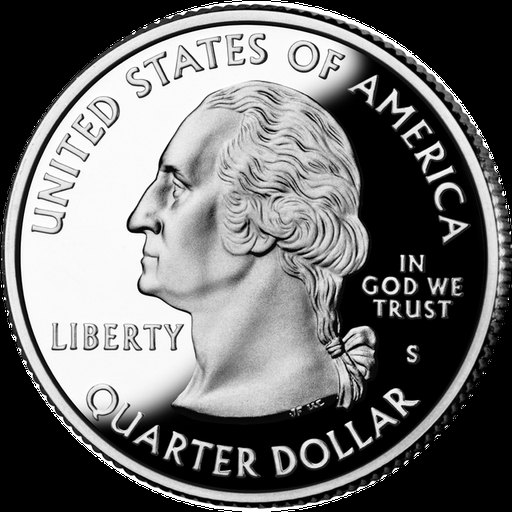
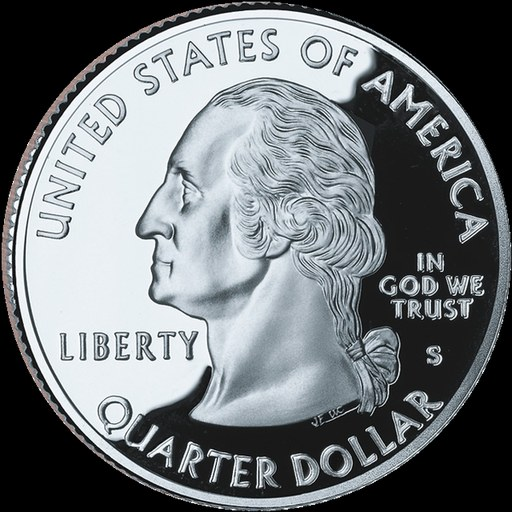
Solo 6 monedas, todas con fotos reales de cara y sello

diff --git a/app.js b/app.js
@@ -165,42 +165,24 @@ const H = {
   rose(c, x, y, r) { for (let k = 0; k < 2; k++) for (let i = 0; i < 5; i++) { const a = i * Math.PI * 2 / 5 + k * Math.PI / 5, rr = k ? r * 0.55 : r; c.beginPath(); c.ellipse(x + Math.cos(a) * rr * 0.55, y + Math.sin(a) * rr * 0.55, rr * 0.5, rr * 0.34, a, 0, Math.PI * 2); c.fill(); } },
 };
 const COINS = [
-  { id: 'cl500', name: '500 pesos', country: 'Chile', flag: '🇨🇱', outer: GOLD, inner: SILVER, innerR: 0.7, thick: 0.17, size: 1.0, ttext: 'sello', reeded: false,
+  { id: 'cl500', name: '500 pesos', country: 'Chile', flag: '🇨🇱', outer: GOLD, inner: SILVER, innerR: 0.7, thick: 0.17, size: 1.0, ttext: 'sello', reeded: false, photo: { heads: 'img/cl500_h.jpg', tails: 'img/cl500_t.jpg' }, credit: 'Fotos aportadas por el usuario (uso personal).',
     heads(c) { H.bust(c, CX + 8, CX + 30, 210, 'cardinal'); H.arcText(c, 'REPUBLICA DE CHILE', RR * 0.83, Math.PI * 1.12, Math.PI * 1.88, 40); H.arcTextBottom(c, 'CARDENAL RAUL SILVA HENRIQUEZ', RR * 0.83, Math.PI * 0.12, Math.PI * 0.88, 24); },
     tails(c) { H.chileShield(c, CX, CX - 95, 105); H.text(c, '500', CX, CX + 55, 120, 800, SANS); H.text(c, 'PESOS', CX, CX + 130, 38, 700, SANS); H.text(c, '2024', CX, CX + 185, 26, 700, SANS); H.wreath(c, CX, CX, RR * 0.84, 1, 9); H.wreath(c, CX, CX, RR * 0.84, -1, 9); } },
-  { id: 'cl100', name: '100 pesos', country: 'Chile', flag: '🇨🇱', outer: SILVER, inner: GOLD, innerR: 0.7, thick: 0.17, size: 0.95, ttext: 'sello', reeded: false,
+  { id: 'cl100', name: '100 pesos', country: 'Chile', flag: '🇨🇱', outer: SILVER, inner: GOLD, innerR: 0.7, thick: 0.17, size: 0.95, ttext: 'sello', reeded: false, photo: { heads: 'img/cl100_h.jpg', tails: 'img/cl100_t.jpg' }, credit: 'Fotos aportadas por el usuario (uso personal).',
     heads(c) { H.bust(c, CX + 8, CX + 30, 210, 'mapuche'); H.arcText(c, 'REPUBLICA DE CHILE', RR * 0.83, Math.PI * 1.12, Math.PI * 1.88, 40); H.arcTextBottom(c, 'PUEBLOS ORIGINARIOS', RR * 0.83, Math.PI * 0.16, Math.PI * 0.84, 26); },
     tails(c) { H.chileShield(c, CX, CX - 95, 105); H.text(c, '100', CX, CX + 55, 120, 800, SANS); H.text(c, 'PESOS', CX, CX + 130, 38, 700, SANS); H.text(c, '2023', CX, CX + 185, 26, 700, SANS); H.wreath(c, CX, CX, RR * 0.84, 1, 9); H.wreath(c, CX, CX, RR * 0.84, -1, 9); } },
-  { id: 'cl10', name: '10 pesos', country: 'Chile', flag: '🇨🇱', outer: GOLD, inner: null, thick: 0.14, size: 0.82, ttext: 'sello', reeded: true,
+  { id: 'cl10', name: '10 pesos', country: 'Chile', flag: '🇨🇱', outer: GOLD, inner: null, thick: 0.14, size: 0.82, ttext: 'sello', reeded: true, photo: { heads: 'img/cl10_h.jpg', tails: 'img/cl10_t.jpg' }, credit: 'Fotos aportadas por el usuario (uso personal).',
     heads(c) { H.bust(c, CX + 8, CX + 30, 215, 'ohiggins'); H.arcText(c, 'REPUBLICA DE CHILE', RR * 0.83, Math.PI * 1.12, Math.PI * 1.88, 40); H.arcTextBottom(c, 'LIBERTADOR B. O\'HIGGINS', RR * 0.83, Math.PI * 0.14, Math.PI * 0.86, 26); },
     tails(c) { H.text(c, '10', CX, CX - 30, 200, 800, SANS); H.text(c, 'PESOS', CX, CX + 95, 44, 700, SANS); H.star(c, CX, CX - 190, 26); H.text(c, '2022', CX, CX + 175, 28, 700, SANS); H.wreath(c, CX, CX, RR * 0.84, 1, 9); H.wreath(c, CX, CX, RR * 0.84, -1, 9); } },
-  { id: 'usq', name: 'Quarter dollar', country: 'Estados Unidos', flag: '🇺🇸', outer: NICKEL, inner: null, thick: 0.14, size: 0.95, ttext: 'cruz', reeded: true, photo: { heads: 'img/usq_h.jpg', tails: 'img/usq_t.jpg' }, credit: 'Anverso: United States Mint (dominio público). Reverso: Wikimedia Commons, CC BY-SA 3.0.',
+  { id: 'usq', name: 'Quarter dollar', country: 'Estados Unidos', flag: '🇺🇸', outer: NICKEL, inner: null, thick: 0.14, size: 0.95, ttext: 'cruz', reeded: true, photo: { heads: 'img/usq_h.jpg', tails: 'img/usq_t.jpg' }, credit: 'Fotos: United States Mint (dominio público).',
     heads(c) { H.bust(c, CX + 10, CX + 40, 215, 'liberty'); H.arcText(c, 'LIBERTY', RR * 0.83, Math.PI * 1.3, Math.PI * 1.7, 46); H.text(c, 'IN GOD', CX - 170, CX - 40, 22, 700, SANS); H.text(c, 'WE TRUST', CX - 170, CX - 14, 22, 700, SANS); H.arcTextBottom(c, '1998', RR * 0.83, Math.PI * 0.4, Math.PI * 0.6, 34); },
     tails(c) { H.eagle(c, CX, CX - 10, 190); H.arcText(c, 'UNITED STATES OF AMERICA', RR * 0.84, Math.PI * 1.1, Math.PI * 1.9, 30); H.arcTextBottom(c, 'QUARTER DOLLAR', RR * 0.84, Math.PI * 0.22, Math.PI * 0.78, 32); H.text(c, 'E PLURIBUS UNUM', CX, CX - 150, 16, 700, SANS); } },
-  { id: 'eur1', name: '1 euro', country: 'Unión Europea', flag: '🇪🇺', outer: NICKEL, inner: GOLD, innerR: 0.7, thick: 0.15, size: 0.92, ttext: 'cruz', reeded: false, photo: { heads: 'img/eur1_h.jpg' }, credit: 'Cara común: foto de Wikimedia Commons, CC BY 2.0. Cara nacional: ilustración.',
+  { id: 'eur1', name: '1 euro', country: 'Italia', flag: '🇪🇺', outer: NICKEL, inner: GOLD, innerR: 0.7, thick: 0.15, size: 0.92, ttext: 'cruz', reeded: false, photo: { heads: 'img/eur1_h.jpg', tails: 'img/eur1_t.jpg' }, credit: 'Fotos aportadas por el usuario (uso personal).',
     heads(c) { H.europe(c, CX + 60, CX + 10, 150); H.text(c, '1', CX - 150, CX - 20, 200, 800, SANS); H.text(c, 'EURO', CX - 120, CX + 110, 40, 700, SANS); for (let i = 0; i < 6; i++) { c.fillRect(CX - 250, CX - 60 + i * 26, 70, 5); } for (let i = 0; i < 12; i++) { const a = i * Math.PI / 6; H.star(c, CX + Math.cos(a) * RR * 0.86, CX + Math.sin(a) * RR * 0.86, 14); } },
     tails(c) { for (let i = 0; i < 12; i++) { const a = i * Math.PI / 6; H.star(c, CX + Math.cos(a) * RR * 0.86, CX + Math.sin(a) * RR * 0.86, 15); } H.bust(c, CX + 8, CX + 40, 200, 'queen'); H.text(c, '2002', CX - 160, CX + 130, 30, 700, SANS); } },
-  { id: 'gbp1', name: '1 pound', country: 'Reino Unido', flag: '🇬🇧', outer: GOLD, inner: NICKEL, innerR: 0.66, thick: 0.17, size: 0.9, sides: 12, ttext: 'cruz', reeded: false,
+  { id: 'gbp1', name: '1 pound', country: 'Reino Unido', flag: '🇬🇧', outer: GOLD, inner: NICKEL, innerR: 0.66, thick: 0.17, size: 0.9, sides: 12, ttext: 'cruz', reeded: false, photo: { heads: 'img/gbp1_h.jpg', tails: 'img/gbp1_t.jpg' }, credit: 'Fotos aportadas por el usuario (uso personal).',
     heads(c) { H.bust(c, CX + 8, CX + 40, 200, 'queen'); H.arcText(c, 'ELIZABETH II · D · G · REG · F · D · 2017', RR * 0.84, Math.PI * 1.02, Math.PI * 1.98, 26); },
     tails(c) { H.rose(c, CX - 60, CX - 40, 60); H.leaf(c, CX + 20, CX - 90, 90, 22, 0.5); H.leaf(c, CX + 20, CX - 90, 90, 22, 1.2); H.sakura(c, CX + 70, CX + 60, 60); H.leaf(c, CX - 90, CX + 60, 80, 26, 2.2); H.arcTextBottom(c, 'ONE POUND', RR * 0.84, Math.PI * 0.25, Math.PI * 0.75, 38); } },
-  { id: 'mx10', name: '10 pesos', country: 'México', flag: '🇲🇽', outer: GOLD, inner: NICKEL, innerR: 0.66, thick: 0.17, size: 0.98, ttext: 'cruz', reeded: false,
-    heads(c) { H.cactusEagle(c, CX, CX - 10, 150); H.arcText(c, 'ESTADOS UNIDOS MEXICANOS', RR * 0.84, Math.PI * 1.06, Math.PI * 1.94, 30); H.wreath(c, CX, CX + 10, RR * 0.6, 1, 7); H.wreath(c, CX, CX + 10, RR * 0.6, -1, 7); },
-    tails(c) { for (let i = 0; i < 20; i++) { c.save(); c.translate(CX, CX - 10); c.rotate(i * Math.PI / 10); c.beginPath(); c.moveTo(150, -14); c.lineTo(205, 0); c.lineTo(150, 14); c.closePath(); c.fill(); c.restore(); } c.beginPath(); c.arc(CX, CX - 10, 150, 0, Math.PI * 2); c.arc(CX, CX - 10, 120, 0, Math.PI * 2, true); c.fill(); c.beginPath(); c.arc(CX, CX - 10, 95, 0, Math.PI * 2); c.arc(CX, CX - 10, 75, 0, Math.PI * 2, true); c.fill(); H.text(c, '$10', CX, CX - 10, 60, 800, SANS); H.text(c, 'DIEZ PESOS', CX, CX + 200, 28, 700, SANS); } },
-  { id: 'ar1', name: '1 peso', country: 'Argentina', flag: '🇦🇷', outer: NICKEL, inner: GOLD, innerR: 0.66, thick: 0.16, size: 0.9, ttext: 'cruz', reeded: false,
-    heads(c) { H.sunFace(c, CX, CX, 150, 32); H.arcText(c, 'REPUBLICA ARGENTINA', RR * 0.84, Math.PI * 1.1, Math.PI * 1.9, 32); H.arcTextBottom(c, 'EN UNION Y LIBERTAD', RR * 0.84, Math.PI * 0.14, Math.PI * 0.86, 28); },
-    tails(c) { H.text(c, '1', CX, CX - 30, 230, 800, SANS); H.text(c, 'PESO', CX, CX + 110, 52, 700, SANS); H.text(c, '1995', CX, CX + 185, 28, 700, SANS); H.wreath(c, CX, CX, RR * 0.84, 1, 9); H.wreath(c, CX, CX, RR * 0.84, -1, 9); } },
-  { id: 'jp100', name: '100 yen', country: 'Japón', flag: '🇯🇵', outer: NICKEL, inner: null, thick: 0.13, size: 0.88, ttext: 'cruz', reeded: true, photo: { heads: 'img/jp100_h.jpg', tails: 'img/jp100_t.jpg' }, credit: 'Fotos: Wikimedia Commons, dominio público.',
-    heads(c) { H.sakura(c, CX - 90, CX - 40, 70); H.sakura(c, CX + 90, CX - 40, 70); H.sakura(c, CX, CX + 70, 70); H.leaf(c, CX - 40, CX + 10, 60, 14, 2.6); H.leaf(c, CX + 40, CX + 10, 60, 14, 0.5); H.text(c, '日本国', CX, CX - 190, 50, 700, 'sans-serif'); H.text(c, '百円', CX, CX + 195, 50, 700, 'sans-serif'); },
-    tails(c) { H.text(c, '100', CX, CX - 20, 210, 800, SANS); H.text(c, '平成 30 年', CX, CX + 130, 44, 700, 'sans-serif'); c.beginPath(); c.arc(CX, CX, RR * 0.9, 0, Math.PI * 2); c.arc(CX, CX, RR * 0.86, 0, Math.PI * 2, true); c.fill(); } },
-  { id: 'br1', name: '1 real', country: 'Brasil', flag: '🇧🇷', outer: NICKEL, inner: GOLD, innerR: 0.64, thick: 0.16, size: 0.92, ttext: 'cruz', reeded: false, photo: { heads: 'img/br1_h.jpg', tails: 'img/br1_t.jpg' }, credit: 'Fotos: Wikimedia Commons, dominio público.',
-    heads(c) { H.bust(c, CX + 8, CX + 40, 200, 'liberty'); H.arcText(c, 'BRASIL', RR * 0.84, Math.PI * 1.3, Math.PI * 1.7, 52); for (let i = 0; i < 24; i++) { const a = i * Math.PI / 12; H.star(c, CX + Math.cos(a) * RR * 0.88, CX + Math.sin(a) * RR * 0.88, 7); } },
-    tails(c) { H.text(c, '1', CX - 40, CX - 20, 240, 800, SANS); H.text(c, 'REAL', CX + 60, CX + 120, 52, 700, SANS); c.lineWidth = 6; for (let i = 0; i < 9; i++) { c.beginPath(); c.moveTo(CX + 60, CX - 200 + i * 30); c.lineTo(CX + 200, CX - 200 + i * 30); c.stroke(); } H.text(c, '2019', CX - 150, CX + 150, 28, 700, SANS); } },
-  { id: 'pe1', name: '1 sol', country: 'Perú', flag: '🇵🇪', outer: NICKEL, inner: null, thick: 0.15, size: 0.9, ttext: 'cruz', reeded: true,
-    heads(c) { c.beginPath(); c.moveTo(CX - 90, CX - 110); c.lineTo(CX + 90, CX - 110); c.lineTo(CX + 90, CX + 20); c.quadraticCurveTo(CX + 90, CX + 90, CX, CX + 120); c.quadraticCurveTo(CX - 90, CX + 90, CX - 90, CX + 20); c.closePath(); c.fill(); c.save(); c.globalCompositeOperation = 'destination-out'; H.vicuna(c, CX - 45, CX - 60, 55); H.tree(c, CX + 45, CX - 70, 55); H.cornucopia(c, CX, CX + 55, 60); c.restore(); H.wreath(c, CX, CX + 10, RR * 0.7, 1, 8); H.wreath(c, CX, CX + 10, RR * 0.7, -1, 8); H.arcText(c, 'BANCO CENTRAL DE RESERVA DEL PERU', RR * 0.86, Math.PI * 1.04, Math.PI * 1.96, 24); },
-    tails(c) { H.text(c, 'S/', CX - 100, CX - 10, 90, 700, SANS); H.text(c, '1', CX + 50, CX - 20, 230, 800, SANS); H.text(c, 'UN SOL', CX, CX + 130, 46, 700, SANS); H.text(c, '2021', CX, CX + 190, 26, 700, SANS); H.wreath(c, CX, CX, RR * 0.84, 1, 9); H.wreath(c, CX, CX, RR * 0.84, -1, 9); } },
-  { id: 'co500', name: '500 pesos', country: 'Colombia', flag: '🇨🇴', outer: GOLD, inner: NICKEL, innerR: 0.66, thick: 0.16, size: 0.92, ttext: 'cruz', reeded: false, photo: { tails: 'img/co500_t.jpg' }, credit: 'Reverso: foto de Wikimedia Commons, CC BY-SA 4.0. Anverso: ilustración.',
-    heads(c) { H.frog(c, CX, CX + 10, 130); H.arcText(c, 'REPUBLICA DE COLOMBIA', RR * 0.84, Math.PI * 1.08, Math.PI * 1.92, 30); H.arcTextBottom(c, 'RANA DE CRISTAL', RR * 0.84, Math.PI * 0.2, Math.PI * 0.8, 24); },
-    tails(c) { H.text(c, '500', CX, CX - 20, 190, 800, SANS); H.text(c, 'PESOS', CX, CX + 110, 46, 700, SANS); H.text(c, '2016', CX, CX + 180, 28, 700, SANS); c.beginPath(); c.arc(CX, CX, RR * 0.9, 0, Math.PI * 2); c.arc(CX, CX, RR * 0.87, 0, Math.PI * 2, true); c.fill(); } },
 ];
 const coinTex = {}, photoCache = {};
 function photoSrc(coin, side) { // user photo (localStorage) > bundled photo > null

diff --git a/sw.js b/sw.js
@@ -1,5 +1,5 @@
-const CACHE = 'moneda-v3';
-const ASSETS = ['./', './index.html', './app.js', './manifest.json', './icon.png', './icon-192.png', './icon-180.png', './img/usq_h.jpg', './img/usq_t.jpg', './img/eur1_h.jpg', './img/jp100_h.jpg', './img/jp100_t.jpg', './img/br1_h.jpg', './img/br1_t.jpg', './img/co500_t.jpg'];
+const CACHE = 'moneda-v4';
+const ASSETS = ['./', './index.html', './app.js', './manifest.json', './icon.png', './icon-192.png', './icon-180.png', './img/cl500_h.jpg', './img/cl500_t.jpg', './img/cl100_h.jpg', './img/cl100_t.jpg', './img/cl10_h.jpg', './img/cl10_t.jpg', './img/gbp1_h.jpg', './img/gbp1_t.jpg', './img/usq_h.jpg', './img/usq_t.jpg', './img/eur1_h.jpg', './img/eur1_t.jpg'];
 self.addEventListener('install', e => { e.waitUntil(caches.open(CACHE).then(c => c.addAll(ASSETS)).then(() => self.skipWaiting())); });
 self.addEventListener('activate', e => { e.waitUntil(caches.keys().then(ks => Promise.all(ks.filter(k => k !== CACHE).map(k => caches.delete(k)))).then(() => self.clients.claim())); });
 self.addEventListener('fetch', e => {

diff --git a/README.md b/README.md
@@ -2,24 +2,13 @@
 
 Lanzamiento de moneda 3D con física de cuerpo rígido, para uso personal. Sin conexión, sin publicidad, sin dependencias.
 
-- 12 monedas estilizadas: Chile ($500, $100, $10), EE.UU. (quarter), euro, libra, México, Argentina, Japón, Brasil, Perú, Colombia
+- 6 monedas con fotos reales: Chile ($500, $100, $10), quarter dollar, 1 euro (Italia), libra esterlina
 - 1 a 8 monedas por lanzamiento; toca o desliza la mesa, agita el teléfono (opcional), barra espaciadora
 - Física propia: gravedad, giro, rebote, fricción, colisiones; el resultado se lee de la cara que queda arriba (verificado uniforme en 300+ lanzamientos)
 - Contador cara/sello con porcentaje, rachas, historial; «Sello» o «Cruz» según preferencia
 - Sonido metálico sintetizado, 6 mesas, tema claro/oscuro, ahorro de batería, PWA instalable
 
-Los diseños de las monedas son ilustraciones estilizadas, no reproducciones oficiales.
 
-## Fotos reales y créditos
+## Fotos reales
 
-Donde existen fotos con licencia libre se usan fotografías reales (carpeta `img/`):
-
-| Moneda | Cara | Sello/Cruz | Fuente |
-|---|---|---|---|
-| Quarter dollar (EE.UU.) | Foto | Foto | United States Mint (dominio público); Wikimedia Commons, CC BY-SA 3.0 |
-| 1 euro | Foto (cara común) | Ilustración | Wikimedia Commons, CC BY 2.0 |
-| 100 yen | Foto | Foto | Wikimedia Commons, dominio público |
-| 1 real (Brasil) | Foto | Foto | Wikimedia Commons, dominio público |
-| 500 pesos (Colombia) | Ilustración | Foto | Wikimedia Commons, CC BY-SA 4.0 |
-
-Las monedas chilenas ($500, $100, $10), la libra, los pesos mexicano y argentino y el sol peruano no tienen fotografías con licencia libre en Wikimedia Commons, y las imágenes oficiales (Banco Central / casas de moneda) tienen derechos reservados, por lo que se muestran como ilustraciones. **En Ajustes → «Fotos de la moneda seleccionada» puedes fotografiar tus propias monedas** (cara y sello), recortarlas en círculo y usarlas en la mesa; se guardan solo en tu dispositivo.
+Seis monedas con fotografías reales de ambas caras (carpeta `img/`): Chile $500, $100 y $10; libra esterlina 2017; quarter dollar; 1 euro (Italia). Las fotos del quarter provienen de la United States Mint (dominio público); las restantes fueron aportadas por el usuario para uso personal. En Ajustes → «Fotos de la moneda seleccionada» se puede reemplazar cualquier cara con una foto propia (se guarda solo en el dispositivo).
